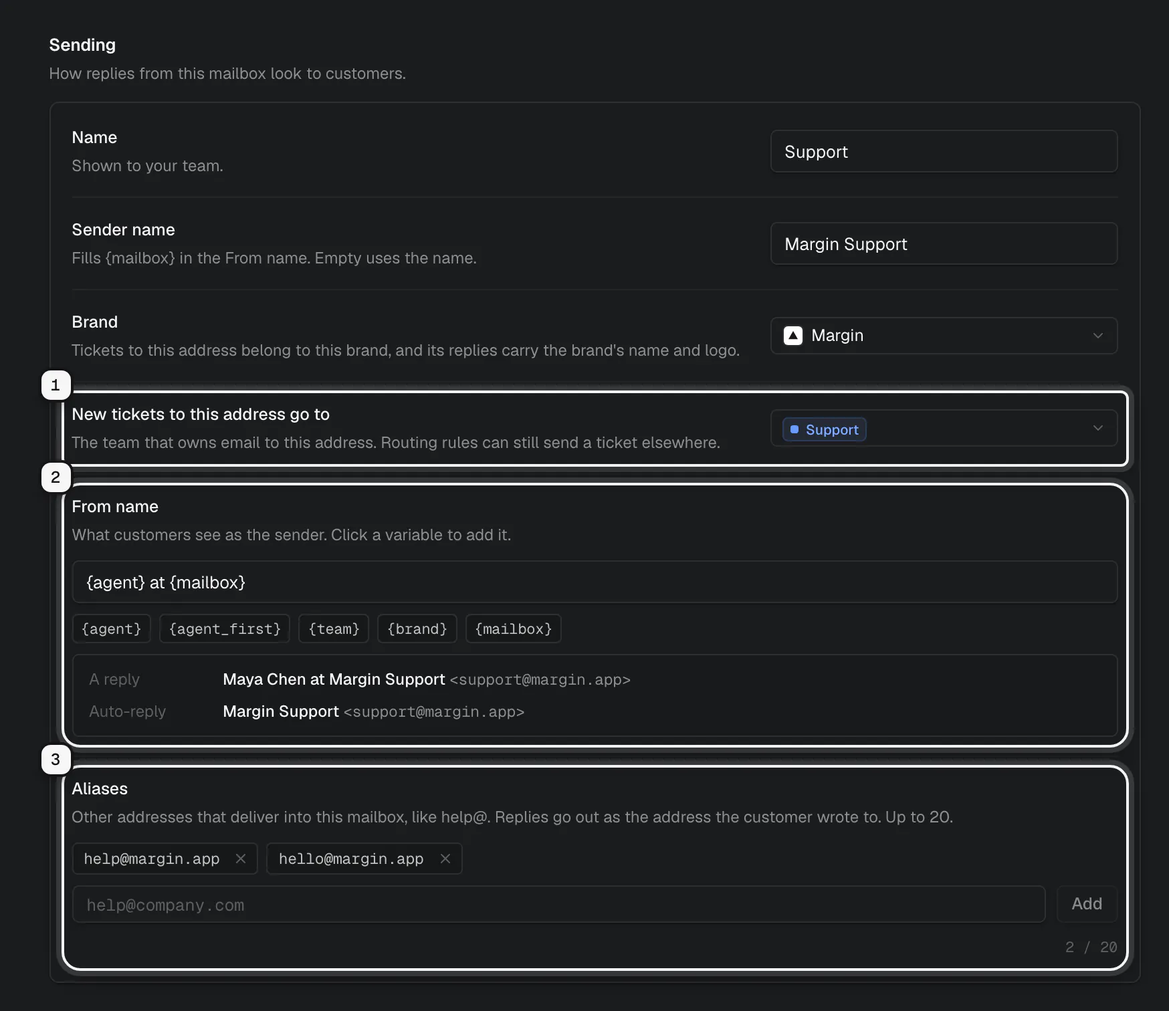
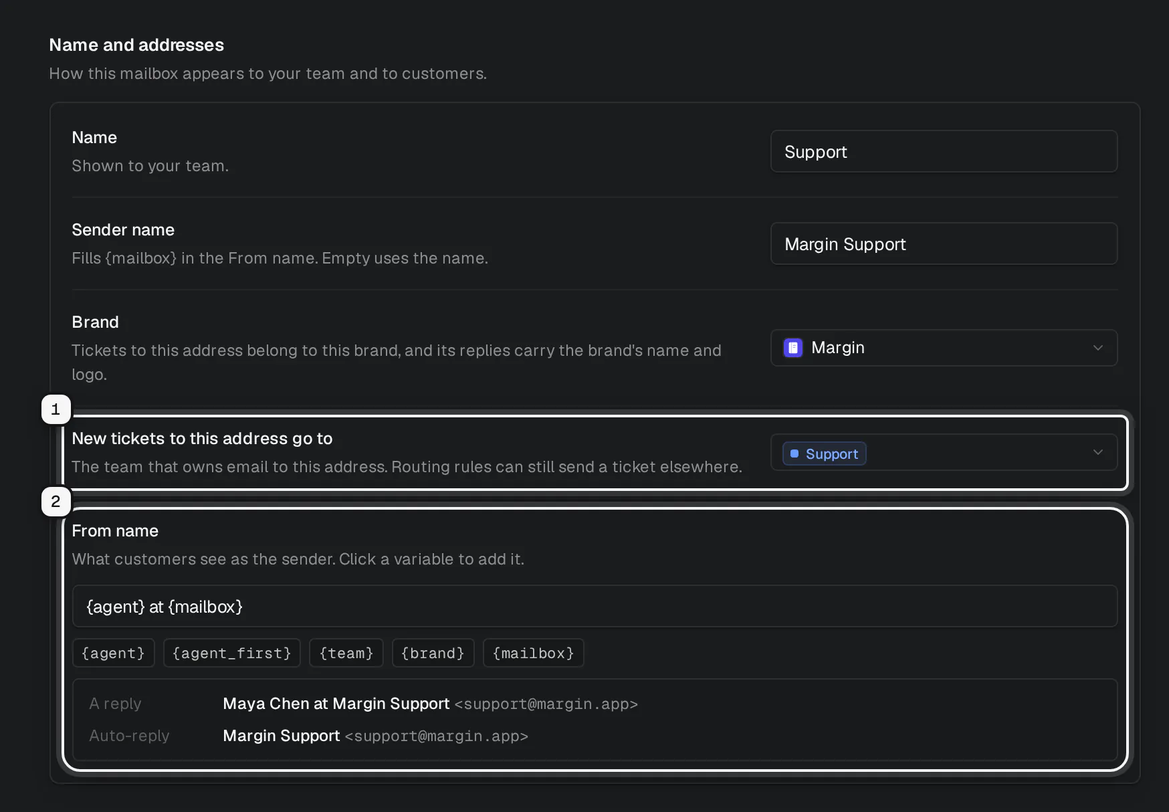
feat: edit each alias's signature in the shared signature editor with its own preview, keep it unless changed, and show aliases in their own docs section

diff --git a/web/src/components/mailboxes/AliasIdentities.tsx b/web/src/components/mailboxes/AliasIdentities.tsx
@@ -5,18 +5,17 @@
 import { useMutation, useQueryClient } from "@tanstack/react-query";
 import { Link } from "@tanstack/react-router";
 import { ArrowUpRight, ChevronDown, Plus, RefreshCw } from "lucide-react";
-import { useState, type ReactNode } from "react";
+import { useMemo, useState, type ReactNode } from "react";
 import { useTranslation } from "react-i18next";
 import { BrandPick, Note, TeamPick, useBrands, useTeams } from "@/components/settings2/teams";
-import { EmailPreview } from "@/components/templates/EmailPreview";
-import { TemplateEditor } from "@/components/templates/TemplateEditor";
+import { SignatureEditor } from "@/components/templates/SignatureEditor";
 import { Badge } from "@/components/ui/badge";
 import { Button } from "@/components/ui/button";
 import { Field, TextInput } from "@/components/ui/input";
 import { Switch } from "@/components/ui/switch";
 import { toast } from "@/components/ui/toast";
 import { api } from "@/lib/api/endpoints";
-import type { AliasSendAs, AliasSettingsInput, Mailbox, TemplateProblem } from "@/lib/api/types";
+import type { AliasSendAs, AliasSettingsInput, Mailbox, TemplatePreviewBody, TemplateProblem } from "@/lib/api/types";
 import { cn } from "@/lib/cn";
 import { relLong } from "@/lib/format";
 import { qk, upsertInList } from "@/lib/queries";
@@ -36,8 +35,9 @@ export function aliasDraftsFor(m: Mailbox): Record<string, AliasDraft> {
 const emptyDraft: AliasDraft = { display_name: "", signature_html: "", brand_id: null, send_as: "unknown" };
 
 /**
- * The alias_settings to save for the aliases kept, or null when nothing changed. send_as goes
- * only where the admin changed it: Gmail's list or Microsoft's refusal decide otherwise.
+ * The alias_settings to save for the aliases kept, or null when nothing changed. A signature
+ * goes only where it was edited (the server keeps the stored one), send_as only where the
+ * admin changed it: Gmail's list or Microsoft's refusal decide otherwise.
  */
 export function aliasSettingsPatch(drafts: Record<string, AliasDraft>, aliases: string[], base: Record<string, AliasDraft>): Record<string, AliasSettingsInput> | null {
   let changed = aliases.some((a) => !base[a]) || Object.keys(base).some((a) => !aliases.includes(a));
@@ -46,7 +46,12 @@ export function aliasSettingsPatch(drafts: Record<string, AliasDraft>, aliases: 
     const d = drafts[a] ?? emptyDraft;
     const b = base[a] ?? emptyDraft;
     if (d.display_name !== b.display_name || d.signature_html !== b.signature_html || d.brand_id !== b.brand_id || d.send_as !== b.send_as) changed = true;
-    out[a] = { display_name: d.display_name.trim(), signature_html: d.signature_html, brand_id: d.brand_id, ...(d.send_as !== b.send_as ? { send_as: d.send_as } : {}) };
+    out[a] = {
+      display_name: d.display_name.trim(),
+      brand_id: d.brand_id,
+      ...(d.signature_html !== b.signature_html ? { signature_html: d.signature_html } : {}),
+      ...(d.send_as !== b.send_as ? { send_as: d.send_as } : {}),
+    };
   }
   return changed ? out : null;
 }
@@ -146,6 +151,12 @@ function AliasRow({
   const listed = mailbox.provider_send_as?.readable && !saved ? mailbox.provider_send_as.addresses.find((x) => x.email === alias) : undefined;
   const self = sendsAs(mailbox, listed?.verified ? "verified" : value.send_as);
   const set = (p: Partial<AliasDraft>) => onChange({ ...value, ...p });
+  // What the preview's check found wrong with the alias's own signature, before a save refuses it.
+  const [checked, setChecked] = useState<TemplateProblem[]>([]);
+  const own = value.signature_html.trim() ? checked : [];
+  // As a reply to the alias carries it: the alias's own, else the address's.
+  const signatureHtml = value.signature_html || mailbox.signature_html;
+  const previewBody = useMemo<TemplatePreviewBody>(() => ({ kind: "signature", mailbox_id: mailbox.id, alias, body_html: signatureHtml }), [mailbox.id, alias, signatureHtml]);
   const id = `alias-${alias.replace(/[^a-z0-9]/g, "-")}`;
   return (
     <li>
@@ -206,28 +217,24 @@ function AliasRow({
           </div>
           <SendAsRow mailbox={mailbox} value={value.send_as} onChange={(send_as) => set({ send_as })} systemSender={systemSender} />
           <div className="flex flex-col gap-1.5">
-            <span className="text-[12.5px] font-medium">{t("aliases.signature")}</span>
-            <TemplateEditor
+            <div className="flex flex-col gap-0.5">
+              <span className="text-[12.5px] font-medium">{t("aliases.signature")}</span>
+              <span className="text-[11.5px] leading-4 text-fg-4">{t("aliases.signatureHint")}</span>
+            </div>
+            <SignatureEditor
               kind="signature"
-              html
               value={value.signature_html}
               onChange={(v) => set({ signature_html: v })}
               placeholder={t("aliases.signaturePlaceholder")}
               ariaLabel={t("aliases.signatureLabel", { alias })}
               minHeight={72}
-              problems={problems}
+              problems={own.length ? own : problems}
+              onProblems={setChecked}
+              previewTitle={t("detail.preview")}
+              previewHeight={380}
+              previewBody={saved ? previewBody : undefined}
             />
-            <span className="text-[11.5px] leading-4 text-fg-4">{t("aliases.signatureHint")}</span>
           </div>
-          {saved && (
-            <EmailPreview
-              collapsible
-              defaultOpen={false}
-              height={380}
-              title={t("detail.preview")}
-              body={{ kind: "signature", mailbox_id: mailbox.id, alias, body_html: value.signature_html || mailbox.signature_html }}
-            />
-          )}
         </div>
       )}
     </li>

diff --git a/qa/flows/aliases.flow.ts b/qa/flows/aliases.flow.ts
@@ -14,7 +14,7 @@ test("give an alias its own name, signature and brand, and add one Gmail can sen
   await page.getByText("support@margin.app").first().click();
   await dismissNudge(page);
   const aliases = page.getByRole("list", { name: "Each alias" });
-  await expect(aliases.getByRole("button", { name: "Edit hello@lumen.studio" })).toBeVisible();
+  await expect(aliases.getByRole("button", { name: "Edit hello@lumen.studio" })).toBeVisible({ timeout: 30000 });
   const gmail = page.getByRole("list", { name: "From Gmail" });
   await gmail.scrollIntoViewIfNeeded();
   await proof.chapter("Aliases", "Every alias of the Support mailbox, how its replies go out, and Gmail's other send-as addresses");
@@ -39,8 +39,17 @@ test("give an alias its own name, signature and brand, and add one Gmail can sen
   await page.keyboard.press("Enter");
   await page.keyboard.type("Reply here any time, we read every email.", { delay: 40 });
   await expect(signature).toContainText("we read every email");
+  // The preview fills the signature as a reply to the alias carries it.
+  const previewToggle = aliases.getByRole("button", { name: "Preview" });
+  await previewToggle.click();
+  await expect(previewToggle).toHaveAttribute("aria-expanded", "true");
+  const filled = page.frameLocator('iframe[title="Email preview"]');
+  await expect(filled.getByText("we read every email", { exact: false })).toBeVisible({ timeout: 30000 });
+  await previewToggle.scrollIntoViewIfNeeded();
+  await proof.dwell();
+  await proof.shot("lumen-preview", { caption: "Lumen's signature in the preview, filled as a reply to hello@lumen.studio" });
   await page.getByRole("region", { name: "Unsaved changes" }).getByRole("button", { name: "Save changes" }).click();
-  await expect(page.getByText("Mailbox saved")).toBeVisible();
+  await expect(page.getByText("Mailbox saved")).toBeVisible({ timeout: 30000 });
   await proof.dwell();
   await proof.shot("lumen-saved", { caption: "Lumen's signature saved; mail to the alias carries it before the team's and the mailbox's" });
 });

diff --git a/web/src/mock/aliases.ts b/web/src/mock/aliases.ts
@@ -53,7 +53,7 @@ export function checkSendAs(m: Mailbox, now: string) {
   normalizeAliases(m);
 }
 
-/** PATCH alias_settings: replaces names, signatures and brands; send_as only where it changes. */
+/** PATCH alias_settings: replaces names and brands; a signature where given; send_as only where it changes. */
 export function writeAliasSettings(ws: WsData, m: Mailbox, raw: unknown) {
   if (!raw || typeof raw !== "object" || Array.isArray(raw)) throw invalid("alias_settings must map aliases to their settings");
   const cur = m.alias_settings ?? {};
@@ -67,7 +67,7 @@ export function writeAliasSettings(ws: WsData, m: Mailbox, raw: unknown) {
     let brand = typeof v.brand_id === "string" && v.brand_id ? v.brand_id : null;
     if (brand && !ws.brands.some((b) => b.id === brand)) throw invalid("alias_settings names a brand that does not exist in this workspace");
     if (brand === m.brand_id) brand = null;
-    const st: AliasSettings = { ...next[a], display_name: name, signature_html: typeof v.signature_html === "string" ? v.signature_html : "", brand_id: brand };
+    const st: AliasSettings = { ...next[a], display_name: name, signature_html: typeof v.signature_html === "string" ? v.signature_html : (cur[a]?.signature_html ?? ""), brand_id: brand };
     if (typeof v.send_as === "string" && v.send_as !== st.send_as) {
       if (!SEND_AS.includes(v.send_as as AliasSendAs)) throw invalid('send_as must be "verified", "unverified" or "unknown"');
       if (readsSendAs(m)) throw invalid("Gmail's own send-as list decides which aliases this mailbox sends as. Add the address in Gmail, then check again.");

diff --git a/web/src/components/mailboxes/AliasIdentities.test.ts b/web/src/components/mailboxes/AliasIdentities.test.ts
@@ -1,0 +1,19 @@
+import { describe, expect, it } from "vitest";
+import { aliasSettingsPatch, type AliasDraft } from "./AliasIdentities";
+
+const draft = (p: Partial<AliasDraft> = {}): AliasDraft => ({ display_name: "Lumen", signature_html: "<p>Lumen</p>", brand_id: null, send_as: "verified", ...p });
+
+describe("aliasSettingsPatch", () => {
+  const base = { "hello@lumen.studio": draft() };
+
+  it("is null when nothing changed", () => {
+    expect(aliasSettingsPatch({ "hello@lumen.studio": draft() }, ["hello@lumen.studio"], base)).toBeNull();
+  });
+
+  it("sends a signature only where it was edited", () => {
+    const named = aliasSettingsPatch({ "hello@lumen.studio": draft({ display_name: "Lumen Studio" }) }, ["hello@lumen.studio"], base);
+    expect(named?.["hello@lumen.studio"]).toEqual({ display_name: "Lumen Studio", brand_id: null });
+    const signed = aliasSettingsPatch({ "hello@lumen.studio": draft({ signature_html: "" }) }, ["hello@lumen.studio"], base);
+    expect(signed?.["hello@lumen.studio"]).toEqual({ display_name: "Lumen", brand_id: null, signature_html: "" });
+  });
+});

diff --git a/web/src/mock/handlers/aliases.test.ts b/web/src/mock/handlers/aliases.test.ts
@@ -39,6 +39,9 @@ describe("mock alias identities", () => {
     });
     expect(next.status).toBe(200);
     expect(next.body.alias_settings["sales@margin.app"]).toMatchObject({ display_name: "Margin Sales", signature_html: "<p>Sales</p>", send_as: "verified" });
+    // A signature left out is kept.
+    const kept = await call("PATCH", url, { alias_settings: { "sales@margin.app": { display_name: "Margin Sales" } } });
+    expect(kept.body.alias_settings["sales@margin.app"].signature_html).toBe("<p>Sales</p>");
     // Left out of the map, an alias keeps no name of its own.
     expect(next.body.alias_settings["hello@lumen.studio"].display_name).toBe("");
     expect((await call("PATCH", url, { alias_settings: { "hello@margin.app": { send_as: "verified" } } })).status).toBe(422);

diff --git a/internal/email/sender.go b/internal/email/sender.go
@@ -78,15 +78,15 @@ func (s *service) cleanAliases(own string, list []string) ([]string, error) {
 // aliasSettingsInput is one alias's settings in a create or PATCH body.
 type aliasSettingsInput struct {
 	DisplayName   string     `json:"display_name,omitempty" maxLength:"64" doc:"The From name's {mailbox} for mail to this alias; \"\" = the mailbox's"`
-	SignatureHTML string     `json:"signature_html,omitempty" doc:"Design allowlist, template variables, up to 64 KB; \"\" = none of its own"`
+	SignatureHTML *string    `json:"signature_html,omitempty" doc:"Design allowlist, template variables, up to 64 KB; \"\" = none of its own; left out keeps it"`
 	BrandID       *uuid.UUID `json:"brand_id,omitempty" doc:"A brand of the workspace for new tickets written to this alias; null = the mailbox's"`
 	SendAs        string     `json:"send_as,omitempty" enum:"verified,unverified,unknown" doc:"Left out keeps it. Where the connection cannot read Gmail's send-as list: verified = the provider sends as this address"`
 }
 
-// mergeAliasSettings is cur after a body replaced it with in: display names, signatures and
-// brands as given (an alias left out has none of its own), send_as as given where it
-// changes (the admin said so), else as it was. It also returns the aliases whose send_as
-// the body changed.
+// mergeAliasSettings is cur after a body replaced it with in: display names and brands as
+// given (an alias left out has none of its own), a signature as given or, left out, as it
+// was, send_as as given where it changes (the admin said so), else as it was. It also
+// returns the aliases whose send_as the body changed.
 func mergeAliasSettings(cur map[string]AliasSettings, in map[string]aliasSettingsInput) (map[string]AliasSettings, []string) {
 	out := map[string]AliasSettings{}
 	for a, st := range cur {
@@ -98,7 +98,12 @@ func mergeAliasSettings(cur map[string]AliasSettings, in map[string]aliasSetting
 	for a, v := range in {
 		a = strings.ToLower(strings.TrimSpace(a))
 		st := out[a]
-		st.DisplayName, st.SignatureHTML, st.BrandID = v.DisplayName, v.SignatureHTML, v.BrandID
+		st.DisplayName, st.BrandID = v.DisplayName, v.BrandID
+		if v.SignatureHTML != nil {
+			st.SignatureHTML = *v.SignatureHTML
+		} else {
+			st.SignatureHTML = cur[a].SignatureHTML
+		}
 		if v.SendAs != "" && v.SendAs != firstNonEmpty(st.SendAs, SendAsUnknown) {
 			st.SendAs, st.SendAsBy = v.SendAs, SendAsByAdmin
 			claimed = append(claimed, a)

diff --git a/internal/email/alias_identity_test.go b/internal/email/alias_identity_test.go
@@ -80,11 +80,17 @@ func TestAliasSettingsAPI(t *testing.T) {
 		AND data -> 'alias_settings' -> 'side@acme.test' ->> 'signature' = 'true' AND NOT data::text LIKE '%team</p>%'`, w.wid); n != 1 {
 		t.Fatalf("audit %d", n)
 	}
-	// The mailbox's own brand is stored as none: the alias follows the mailbox.
+	// The mailbox's own brand is stored as none: the alias follows the mailbox. A signature
+	// left out is kept; "" clears it.
 	if code := doJSON(t, http.MethodPatch, url, map[string]any{"alias_settings": map[string]any{
 		"side@acme.test": map[string]any{"display_name": "Side Project", "brand_id": w.brand.String()}}}, &got); code != 200 ||
-		got.AliasSettings["side@acme.test"].BrandID != nil {
+		got.AliasSettings["side@acme.test"].BrandID != nil || !strings.Contains(got.AliasSettings["side@acme.test"].SignatureHTML, "team</p>") {
 		t.Fatalf("own brand %d %+v", code, got.AliasSettings)
+	}
+	if code := doJSON(t, http.MethodPatch, url, map[string]any{"alias_settings": map[string]any{
+		"side@acme.test": map[string]any{"display_name": "Side Project", "signature_html": ""}}}, &got); code != 200 ||
+		got.AliasSettings["side@acme.test"].SignatureHTML != "" {
+		t.Fatalf("cleared signature %d %+v", code, got.AliasSettings)
 	}
 	for name, body := range map[string]map[string]any{
 		"not an alias":      {"other@acme.test": map[string]any{"display_name": "X"}},

diff --git a/internal/email/api_mailboxes.go b/internal/email/api_mailboxes.go
@@ -105,7 +105,7 @@ type updateMailboxInput struct {
 		BrandID        *string                        `json:"brand_id,omitempty" doc:"Move the address to another brand of the workspace"`
 		Aliases        *[]string                      `json:"aliases,omitempty" maxItems:"20" doc:"Replaces the aliases"`
 		AliasTeams     *map[string]uuid.UUID          `json:"alias_teams,omitempty" doc:"Replaces them: an alias to the team its new tickets go to. Removing an alias drops its entry"`
-		AliasSettings  *map[string]aliasSettingsInput `json:"alias_settings,omitempty" doc:"Replaces each alias's From name, signature and brand (an alias left out has none of its own); send_as left out is kept. Removing an alias drops its entry"`
+		AliasSettings  *map[string]aliasSettingsInput `json:"alias_settings,omitempty" doc:"Replaces each alias's From name, signature and brand (an alias left out has none of its own); signature_html and send_as left out are kept. Removing an alias drops its entry"`
 		FromNameFormat *string                        `json:"from_name_format,omitempty" maxLength:"200" doc:"\"\" resets to \"{agent} at {mailbox}\""`
 		// Website contact forms whose authenticated mail is from the visitor in Reply-To.
 		TrustedFormSenders *[]string `json:"trusted_form_senders,omitempty" maxItems:"50" doc:"Replaces the list: email addresses or @domain entries"`

diff --git a/contracts/api.md b/contracts/api.md
@@ -794,7 +794,7 @@ runs of whitespace collapsed, and refuse `<`, `>` and control characters (`422 v
 ### Email (owner: backend-email)
 | method | path | notes |
 | --- | --- | --- |
-| CRUD | `/v1/mailboxes`, `/v1/mailboxes/{id}` | create `{name, email, display_name?, inbound_kind, outbound_kind, config, password?, smtp_password?, team_id?, brand_id?, aliases?, alias_teams?, alias_settings?, from_name_format?}`. PATCH also takes `ai_answers`, `ai_answers_mode`, `ai_answers_outside_hours` (admin; turning `ai_answers` on answers `422 ai_off` while AI is off for the instance or the workspace; audit `mailbox.updated` with the new values) and `trusted_form_senders` (replaces the list; at most 50 entries, each an address or `@domain`, lowercased and deduplicated; a domain of a public email provider, the mailbox's own address or one of its aliases is `422 validation_failed`; audit `mailbox.updated` with the new list). GET answers `trusted_form_senders` to admins and API keys with `settings:read`, `[]` to others. `brand_id` is a brand of the workspace (default: the default brand; PATCH moves the address); OAuth connects create the mailbox in the default brand. `aliases`: at most 20 distinct valid addresses, not the mailbox's own, not on the inbound forwarding domain, and not the address or an alias of another mailbox of the workspace (a mailbox's `email` may not be another's alias either); `422 validation_failed`. `alias_teams` (PATCH replaces it) maps aliases to teams of the workspace; each key is one of `aliases` (lowercased), and a mailbox whose team is private takes none (a private team's address delivers every alias to that team), else `422 validation_failed`. Removing an alias drops its entry; deleting a team moves its entries to `move_to`, or drops them. Audit `mailbox.updated` with the new `alias_teams` when it changes. `alias_settings` (PATCH replaces it) maps aliases to `{display_name?, signature_html?, brand_id?, send_as?}`: each key is one of `aliases` (lowercased); `display_name` is checked like any name people choose, `signature_html` is sanitized and checked like the address's own signature (problems in `errors` at `alias_settings.<alias>.signature_html`), `brand_id` is a brand of the workspace (the mailbox's own brand is stored as `null`), else `422 validation_failed`. An alias left out of the map keeps no name, signature or brand of its own; `send_as` left out keeps its value, and given it is the admin's word (`send_as_by: "admin"`), refused with `422 validation_failed` while the connection reads Gmail's send-as list (`provider_send_as.readable`), which decides instead. Removing an alias drops its entry; an alias added while Gmail's list is known takes its `send_as` from the list. Audit `mailbox.updated` with `alias_settings: {<alias>: {display_name, brand_id, send_as, signature: boolean}}` when it changes (whether it has a signature, never the signature). `from_name_format`: up to 80 characters, only the five variables, no `<`, `>` or control characters; `""` resets it to the default. `inbound_kind` `"imap"` receives over generic IMAP and is accepted while the instance has `MAILBOX_IMAP` on, or the workspace has Collab (contracts/collab.md "Who has it") and the instance offers Collab IMAP (`COLLAB_IMAP`, default on); `"google"` and `"microsoft"` over IMAP (the provider's OAuth IMAP) only while `MAILBOX_IMAP` is on: otherwise `422 imap_off` ("Receiving over IMAP is off on this instance. Forward the address to opendesk instead."). The network guard and TLS rules are the same either way. Create takes `"forwarding"` or `"imap"`; Google and Microsoft connect through the OAuth start route. `outbound_kind` `"system"` (create, or a PATCH onto it) is accepted only while the instance has `MAILBOX_SYSTEM_SEND` on: otherwise `422 system_send_off` ("Sending through opendesk is off on this instance. Connect Google or Microsoft, or add SMTP."); a mailbox already on it keeps it, with `sending: "system_off"`, and other fields stay editable. PATCH changes how mail is received with `inbound_kind`: `"forwarding"` drops the IMAP settings and the IMAP password (kept as the SMTP password when it signed in to SMTP too) and keeps how replies are sent; a Google or Microsoft connection is kept while replies go through it and dropped otherwise; an `error` status from the IMAP sync becomes `active`. `"imap"` (from forwarding, while IMAP is on for the workspace) needs the IMAP settings and password as on create; `"google"`/`"microsoft"` are `422 validation_failed` (use the OAuth start route). PATCH also changes how replies are sent: `outbound_kind` (`"google"` and `"microsoft"` only for a mailbox that holds that provider's connection, whatever its `inbound_kind`), `config.smtp_*` and `smtp_password` (write-only; left out, the stored one is kept), validated as on create (public host, TLS, a password to sign in with). Moving to `"system"` drops the SMTP settings and the SMTP password; moving a forwarding mailbox off `"google"`/`"microsoft"` drops that connection (sending through it again needs a reconnect). `verify: true` signs in first, as on create (below). Create and PATCH take `config.sync_start` (the `Mailbox` shape). Audit `mailbox.updated` with `connection: {inbound_kind, outbound_kind, verified, imap?: {host, port, tls}, smtp?: {host, port, tls}}` when any of them change. PATCH `config.provider_mark_read`, `config.provider_archive_on_solve` and `config.provider_label` (booleans, admin) turn the Gmail or Outlook tidy-up on or off ("Reading the inbox directly"); turning one on for a mailbox that does not read its inbox through the provider's API is `422 validation_failed`, and a mailbox that stops reading through it drops them. Audit `mailbox.updated` with `provider_options: {mark_read, archive_on_solve, label}` when they change |
+| CRUD | `/v1/mailboxes`, `/v1/mailboxes/{id}` | create `{name, email, display_name?, inbound_kind, outbound_kind, config, password?, smtp_password?, team_id?, brand_id?, aliases?, alias_teams?, alias_settings?, from_name_format?}`. PATCH also takes `ai_answers`, `ai_answers_mode`, `ai_answers_outside_hours` (admin; turning `ai_answers` on answers `422 ai_off` while AI is off for the instance or the workspace; audit `mailbox.updated` with the new values) and `trusted_form_senders` (replaces the list; at most 50 entries, each an address or `@domain`, lowercased and deduplicated; a domain of a public email provider, the mailbox's own address or one of its aliases is `422 validation_failed`; audit `mailbox.updated` with the new list). GET answers `trusted_form_senders` to admins and API keys with `settings:read`, `[]` to others. `brand_id` is a brand of the workspace (default: the default brand; PATCH moves the address); OAuth connects create the mailbox in the default brand. `aliases`: at most 20 distinct valid addresses, not the mailbox's own, not on the inbound forwarding domain, and not the address or an alias of another mailbox of the workspace (a mailbox's `email` may not be another's alias either); `422 validation_failed`. `alias_teams` (PATCH replaces it) maps aliases to teams of the workspace; each key is one of `aliases` (lowercased), and a mailbox whose team is private takes none (a private team's address delivers every alias to that team), else `422 validation_failed`. Removing an alias drops its entry; deleting a team moves its entries to `move_to`, or drops them. Audit `mailbox.updated` with the new `alias_teams` when it changes. `alias_settings` (PATCH replaces it) maps aliases to `{display_name?, signature_html?, brand_id?, send_as?}`: each key is one of `aliases` (lowercased); `display_name` is checked like any name people choose, `signature_html` is sanitized and checked like the address's own signature (problems in `errors` at `alias_settings.<alias>.signature_html`), `brand_id` is a brand of the workspace (the mailbox's own brand is stored as `null`), else `422 validation_failed`. An alias left out of the map keeps no name, signature or brand of its own; an alias's `signature_html` left out keeps the stored one (`""` clears it), and `send_as` left out keeps its value, and given it is the admin's word (`send_as_by: "admin"`), refused with `422 validation_failed` while the connection reads Gmail's send-as list (`provider_send_as.readable`), which decides instead. Removing an alias drops its entry; an alias added while Gmail's list is known takes its `send_as` from the list. Audit `mailbox.updated` with `alias_settings: {<alias>: {display_name, brand_id, send_as, signature: boolean}}` when it changes (whether it has a signature, never the signature). `from_name_format`: up to 80 characters, only the five variables, no `<`, `>` or control characters; `""` resets it to the default. `inbound_kind` `"imap"` receives over generic IMAP and is accepted while the instance has `MAILBOX_IMAP` on, or the workspace has Collab (contracts/collab.md "Who has it") and the instance offers Collab IMAP (`COLLAB_IMAP`, default on); `"google"` and `"microsoft"` over IMAP (the provider's OAuth IMAP) only while `MAILBOX_IMAP` is on: otherwise `422 imap_off` ("Receiving over IMAP is off on this instance. Forward the address to opendesk instead."). The network guard and TLS rules are the same either way. Create takes `"forwarding"` or `"imap"`; Google and Microsoft connect through the OAuth start route. `outbound_kind` `"system"` (create, or a PATCH onto it) is accepted only while the instance has `MAILBOX_SYSTEM_SEND` on: otherwise `422 system_send_off` ("Sending through opendesk is off on this instance. Connect Google or Microsoft, or add SMTP."); a mailbox already on it keeps it, with `sending: "system_off"`, and other fields stay editable. PATCH changes how mail is received with `inbound_kind`: `"forwarding"` drops the IMAP settings and the IMAP password (kept as the SMTP password when it signed in to SMTP too) and keeps how replies are sent; a Google or Microsoft connection is kept while replies go through it and dropped otherwise; an `error` status from the IMAP sync becomes `active`. `"imap"` (from forwarding, while IMAP is on for the workspace) needs the IMAP settings and password as on create; `"google"`/`"microsoft"` are `422 validation_failed` (use the OAuth start route). PATCH also changes how replies are sent: `outbound_kind` (`"google"` and `"microsoft"` only for a mailbox that holds that provider's connection, whatever its `inbound_kind`), `config.smtp_*` and `smtp_password` (write-only; left out, the stored one is kept), validated as on create (public host, TLS, a password to sign in with). Moving to `"system"` drops the SMTP settings and the SMTP password; moving a forwarding mailbox off `"google"`/`"microsoft"` drops that connection (sending through it again needs a reconnect). `verify: true` signs in first, as on create (below). Create and PATCH take `config.sync_start` (the `Mailbox` shape). Audit `mailbox.updated` with `connection: {inbound_kind, outbound_kind, verified, imap?: {host, port, tls}, smtp?: {host, port, tls}}` when any of them change. PATCH `config.provider_mark_read`, `config.provider_archive_on_solve` and `config.provider_label` (booleans, admin) turn the Gmail or Outlook tidy-up on or off ("Reading the inbox directly"); turning one on for a mailbox that does not read its inbox through the provider's API is `422 validation_failed`, and a mailbox that stops reading through it drops them. Audit `mailbox.updated` with `provider_options: {mark_read, archive_on_solve, label}` when they change |
 | POST | `/v1/mailboxes/{id}/send-as/check` | admin, `settings:write` → `Mailbox`: reads Gmail's send-as list now (contracts/teams.md "Aliases"), stores it in `provider_send_as` and sets each alias's `send_as` from it. Only for a Google connection that may read it (a sync or api grant): otherwise `422 send_as_unreadable` ("Google does not share the send-as list with this connection. Add the addresses as aliases by hand."). 6 a minute per mailbox (`429`); a refusal from Gmail is `502 provider_error` with its words. The list is also read on connecting and reconnecting, and about once a day while the mailbox syncs. Audit `mailbox.updated {changes: ["alias_settings"], alias_settings, send_as_checked: true}` |
 | POST | `/v1/mailboxes/{id}/test` | → `MailboxCheck` (below). Checks only what the mailbox uses: forwarding is enabled on the instance, the IMAP sign-in (while IMAP is off for the workspace, the inbound leg fails without dialling: "Receiving over IMAP is off on this instance."), or for a mailbox that reads through the provider's API, reading its inbox label or folder (no mail is read); the SMTP sign-in, or the provider token (a Google send-only connection cannot read the profile, so the check refreshes its token). When SMTP on 465 is silent and STARTTLS on 587 of the same server works, the mailbox keeps 587 (`smtp_port`, `mailbox.updated`) |
 | POST | `/v1/mailboxes/oauth/{provider}/start` | `{mailbox_id?, name, email?, receive?: "forwarding" \| "sync" \| "api", sync_start?: "recent" \| "new"}` → `{url}` (google, microsoft). `sync_start` is stored as `config.sync_start`; a reconnect without it keeps the mailbox's own. `receive` (default `"forwarding"`) is how a new mailbox receives: `"forwarding"` connects send-only (Google `openid email https://www.googleapis.com/auth/gmail.send`; Microsoft `openid email offline_access https://graph.microsoft.com/Mail.Send https://graph.microsoft.com/User.Read`, the code redeemed for the Graph token alone); `"sync"` also reads the inbox over IMAP (Google `https://mail.google.com/`; Microsoft adds `https://outlook.office.com/IMAP.AccessAsUser.All`) and is `422 imap_off` while `MAILBOX_IMAP` is off; `"api"` reads the inbox through the provider's API with the Collab OAuth client and scopes (Google `openid email https://www.googleapis.com/auth/gmail.modify`, offline, consent; Microsoft `openid email offline_access https://graph.microsoft.com/Mail.ReadWrite https://graph.microsoft.com/Mail.Send https://graph.microsoft.com/User.Read`, the code redeemed for the Graph token alone) and is `422 api_sync_unavailable` unless the workspace has Collab and that provider's Collab client is configured ("Reading the inbox directly needs Collab on this workspace's plan. Forward its mail to opendesk instead.", or that it is not set up on this instance). A reconnect (`mailbox_id`) keeps how the mailbox receives: a forwarding mailbox reconnects send-only, one that receives over IMAP reconnects with sync scopes while IMAP is on and, while it is off, becomes a forwarding mailbox with a send-only connection; one that reads through the API reconnects with the api scopes while the workspace may and, otherwise, becomes a forwarding mailbox with a send-only connection. `receive: "api"` on a reconnect moves the mailbox to reading through the API (the same `422 api_sync_unavailable` otherwise); other values are ignored. A new connection while that provider's mailbox sign-in is off (`GOOGLE_MAILBOX_OAUTH`, `MICROSOFT_MAILBOX_OAUTH`) is `403 mailbox_oauth_disabled`; reconnecting a mailbox that already uses it is allowed. That switch governs an api connection only while the Collab client is the mailbox client itself |
